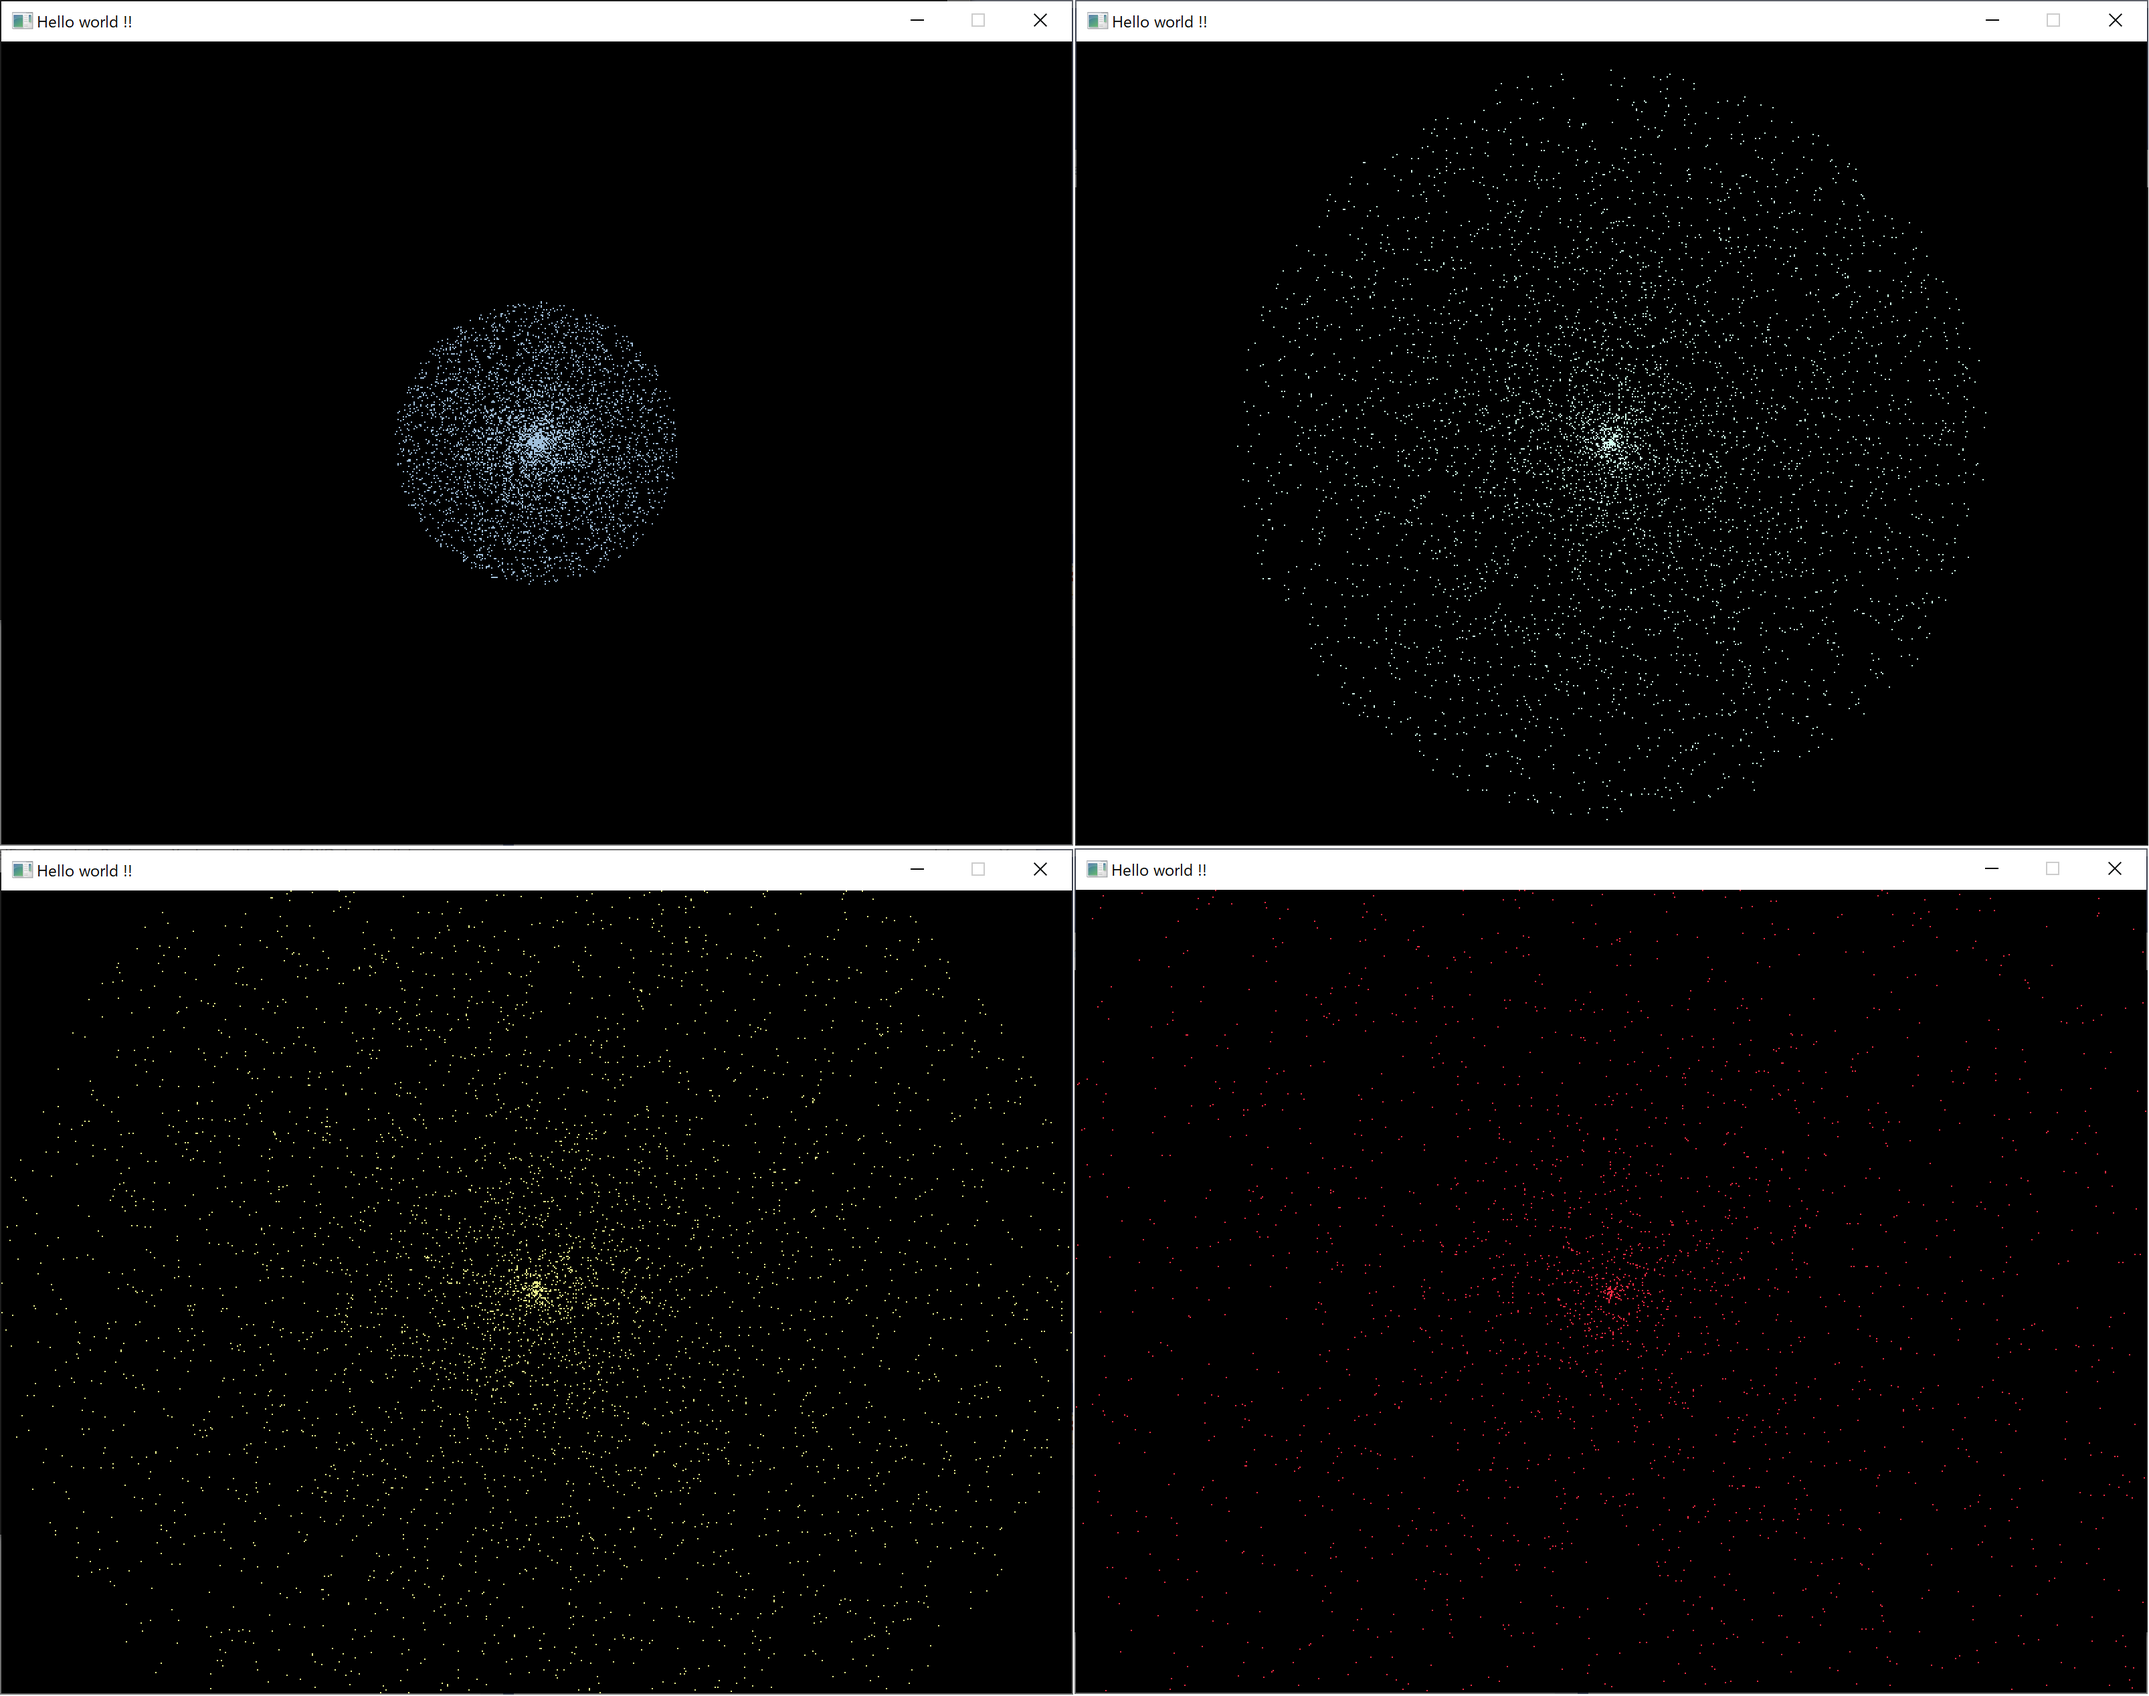
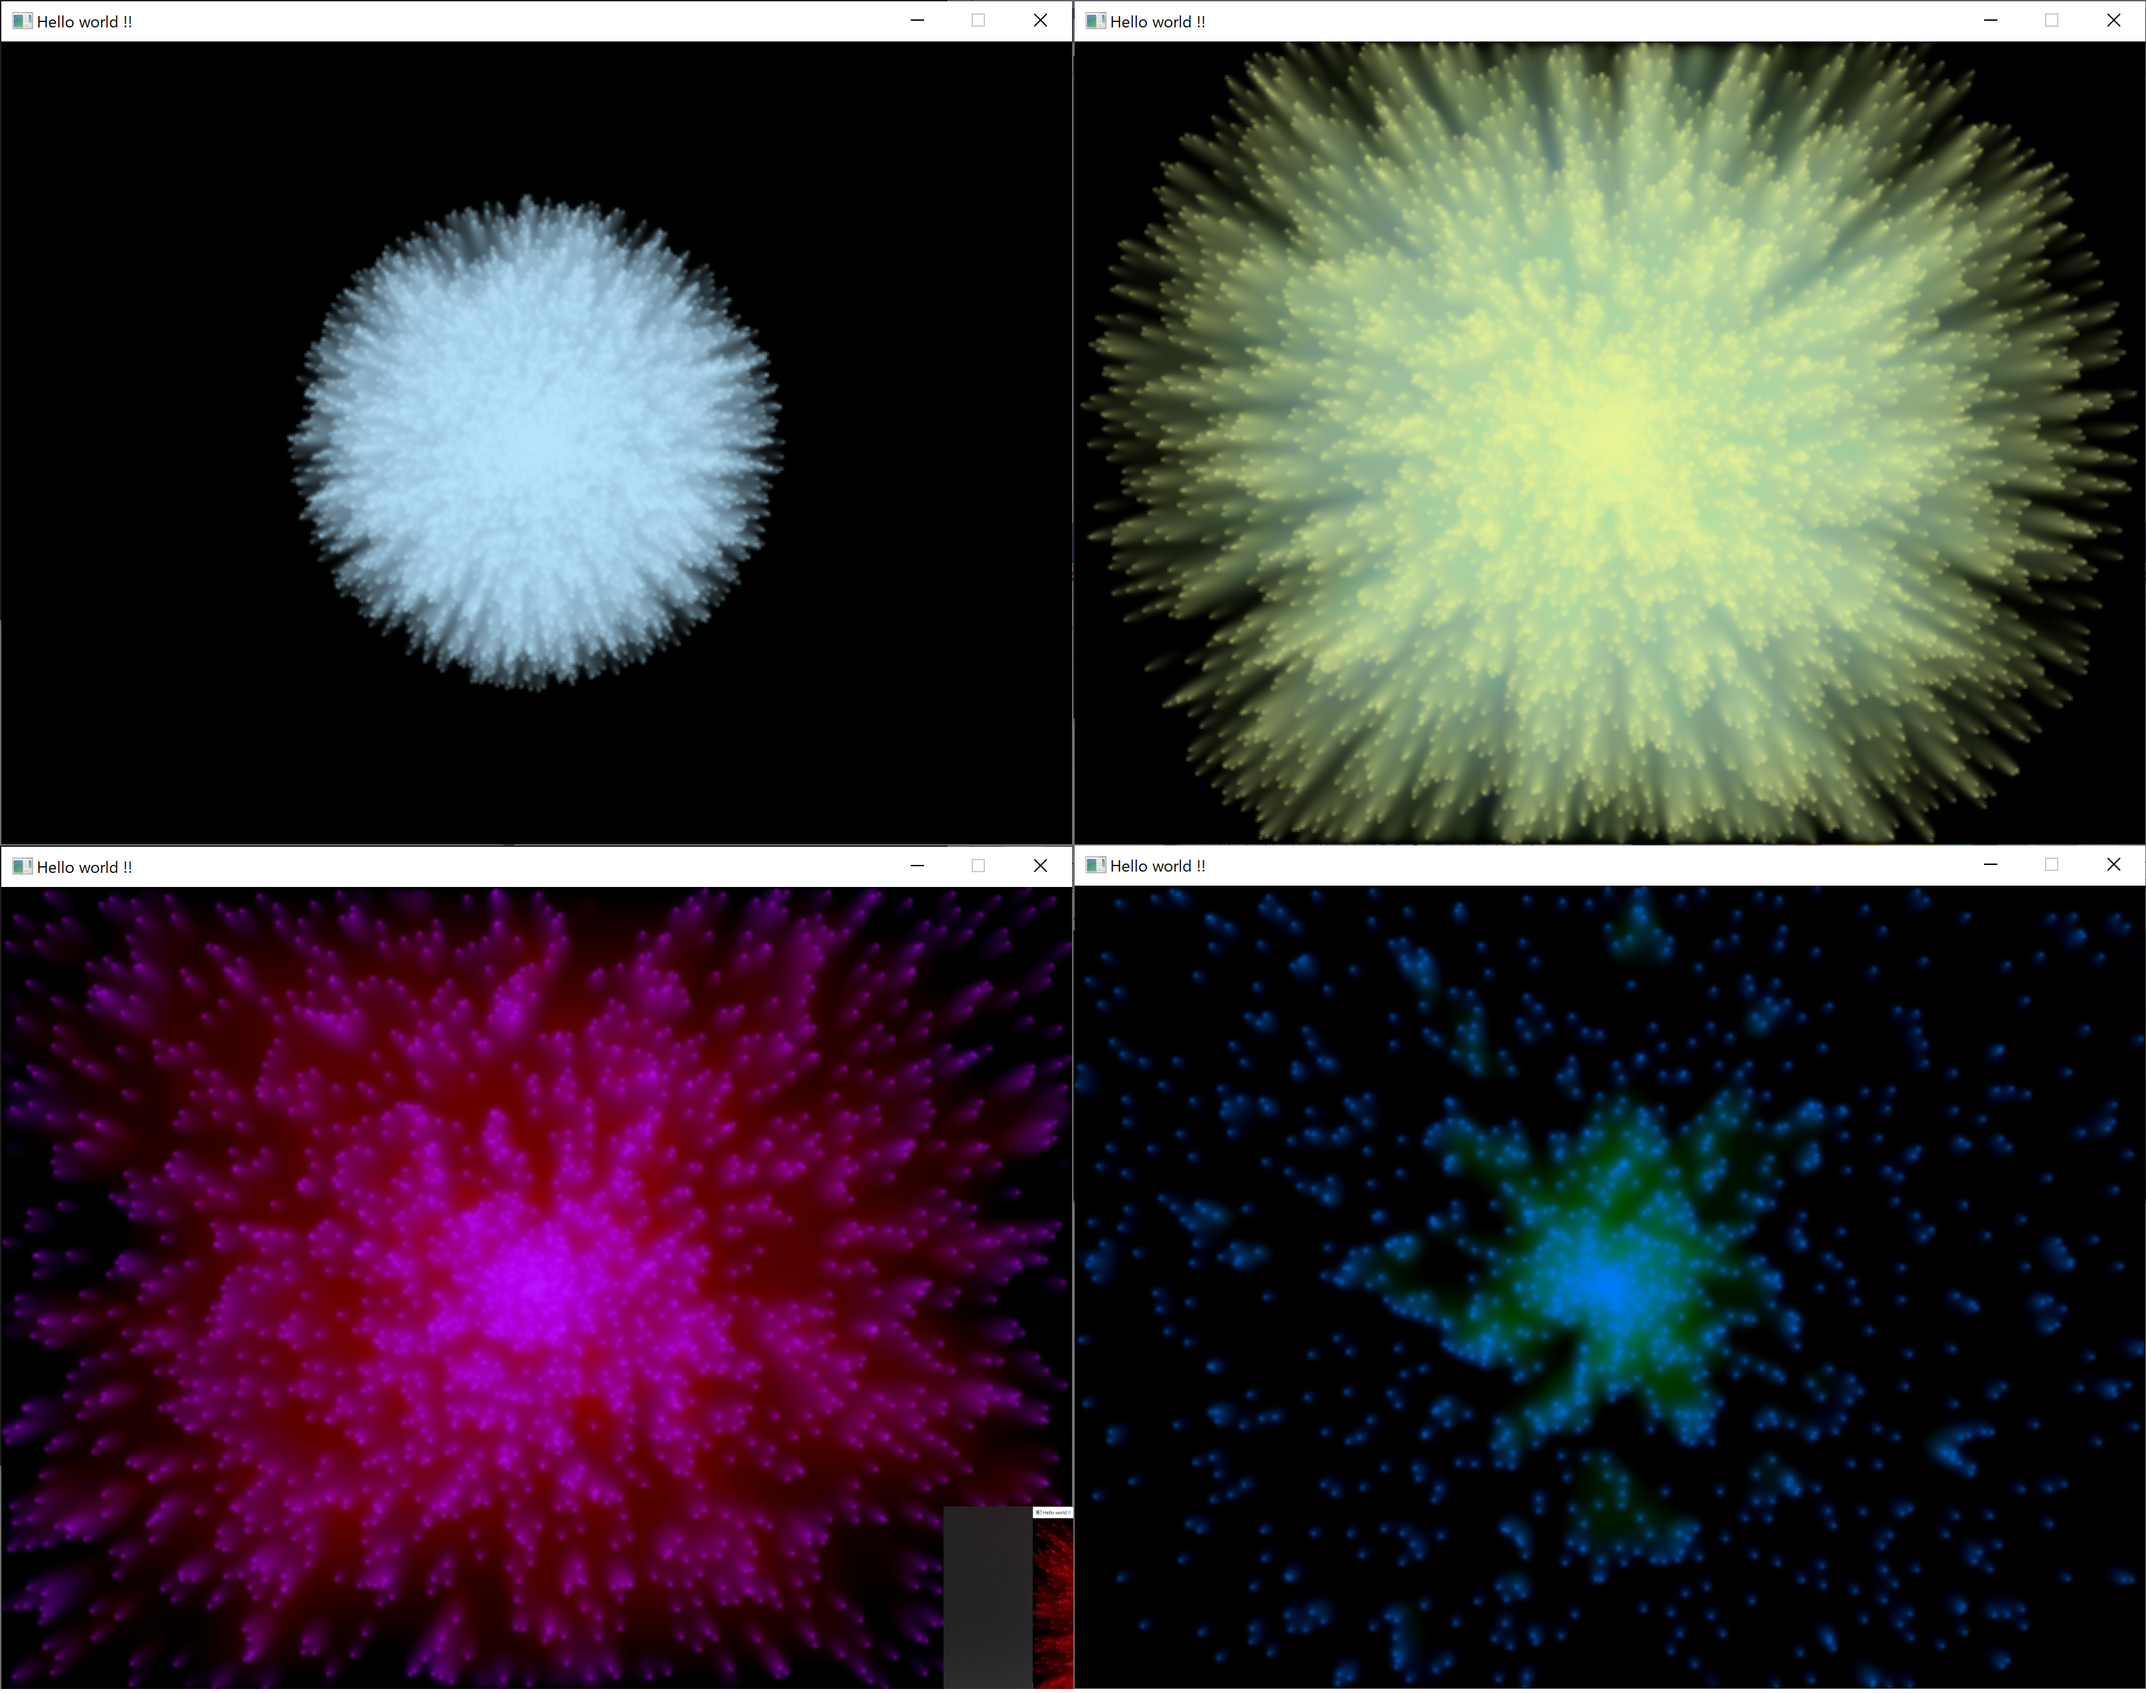
add sdl-basic until implementing box blur

diff --git a/Screen.cpp b/Screen.cpp
@@ -2,8 +2,7 @@
 
 namespace sdl_basic {
 	Screen::Screen() :
-		// m_window(NULL), m_renderer(NULL), m_texture(NULL), m_buffer1(NULL), m_buffer2(NULL) {
-        m_window(NULL), m_renderer(NULL), m_texture(NULL), m_buffer(NULL) {
+		m_window(NULL), m_renderer(NULL), m_texture(NULL), m_buffer1(NULL), m_buffer2(NULL) {
 	};
 
 	bool Screen::init() {
@@ -38,24 +37,15 @@ namespace sdl_basic {
         }
 
         // prepare memory
-        // m_buffer1 = new Uint32[SCREEN_WIDTH * SCREEN_HEIGHT];
-        // m_buffer2 = new Uint32[SCREEN_WIDTH * SCREEN_HEIGHT];
-        m_buffer = new Uint32[SCREEN_WIDTH * SCREEN_HEIGHT];
-
-        // memset(m_buffer1, 0, SCREEN_WIDTH * SCREEN_HEIGHT * sizeof(Uint32));
-        // memset(m_buffer2, 0, SCREEN_WIDTH * SCREEN_HEIGHT * sizeof(Uint32));
-        memset(m_buffer, 0, SCREEN_WIDTH * SCREEN_HEIGHT * sizeof(Uint32));
-
-        // set every 4bytes as color into memory
-        for (int i = 0; i < SCREEN_WIDTH * SCREEN_HEIGHT; i++) {
-            // m_buffer1[i] = 0x1C2C3C00;
-            // m_buffer2[i] = 0x1C2C3C00;
-            m_buffer[i] = 0x1C2C3C00;
-        }
+        m_buffer1 = new Uint32[SCREEN_WIDTH * SCREEN_HEIGHT];
+        m_buffer2 = new Uint32[SCREEN_WIDTH * SCREEN_HEIGHT];
+        
+        memset(m_buffer1, 0, SCREEN_WIDTH * SCREEN_HEIGHT * sizeof(Uint32));
+        memset(m_buffer2, 0, SCREEN_WIDTH * SCREEN_HEIGHT * sizeof(Uint32));
  
 		return true;
 	};
-    /*
+
     void Screen::boxBlur() {
         // swap the calculated m_buffer2 to m_buffer1
         Uint32* temp = m_buffer1;
@@ -73,8 +63,8 @@ namespace sdl_basic {
                 int greenTotal = 0;
                 int blueTotal = 0;
 
-                for (int row = -1; row < 1; row++) {
-                    for (int col = -1; col < 1; col++) {
+                for (int row = -1; row <= 1; row++) {
+                    for (int col = -1; col <= 1; col++) {
                         int currentX = x + col;
                         int currentY = y + row;
 
@@ -100,11 +90,6 @@ namespace sdl_basic {
             }
         }
     }
-    */
-    
-    void Screen::clear() {
-        memset(m_buffer, 0, SCREEN_WIDTH * SCREEN_HEIGHT * sizeof(Uint32));
-    }
     
     void Screen::setPixel(int x, int y, Uint8 red, Uint8 green, Uint8 blue) {
 
@@ -120,14 +105,12 @@ namespace sdl_basic {
         color <<= 8;
         color += 0xFF;
 
-        // m_buffer1[(y * SCREEN_WIDTH) + x] = color;
-        m_buffer[(y * SCREEN_WIDTH) + x] = color;
+        m_buffer1[(y * SCREEN_WIDTH) + x] = color;
     }
 
     void Screen::update() {
         // update screen
-        // SDL_UpdateTexture(m_texture, NULL, m_buffer1, SCREEN_WIDTH * sizeof(Uint32));
-        SDL_UpdateTexture(m_texture, NULL, m_buffer, SCREEN_WIDTH * sizeof(Uint32));
+        SDL_UpdateTexture(m_texture, NULL, m_buffer1, SCREEN_WIDTH * sizeof(Uint32));
         SDL_RenderClear(m_renderer);
         SDL_RenderCopy(m_renderer, m_texture, NULL, NULL);
         SDL_RenderPresent(m_renderer);
@@ -146,9 +129,8 @@ namespace sdl_basic {
 
 	void Screen::close() {
         // finalize screen
-        // delete[] m_buffer1;
-        // delete[] m_buffer2;
-        delete[] m_buffer;
+        delete[] m_buffer1;
+        delete[] m_buffer2;
         SDL_DestroyRenderer(m_renderer);
         SDL_DestroyTexture(m_texture);
         SDL_DestroyWindow(m_window);

diff --git a/Screen.h b/Screen.h
@@ -15,9 +15,8 @@ namespace sdl_basic {
 		SDL_Window* m_window;
 		SDL_Renderer* m_renderer;
 		SDL_Texture* m_texture;
-		Uint32* m_buffer;
-		// Uint32* m_buffer1;
-		// Uint32* m_buffer2;
+		Uint32* m_buffer1;
+		Uint32* m_buffer2;
 
 	public:
 		Screen();
@@ -26,8 +25,7 @@ namespace sdl_basic {
 		void setPixel(int x, int y, Uint8 red, Uint8 green, Uint8 blue);
 		bool processEvents();
 		void close();
-		void clear();
-		// void boxBlur();
+		void boxBlur();
 	};
 
 }

diff --git a/main.cpp b/main.cpp
@@ -24,7 +24,7 @@ int main(int argc, char* argv[])
 
         int elapsed = SDL_GetTicks();
 
-        screen.clear();
+        // screen.clear();
         swarm.update(elapsed);
 
         unsigned char red = (unsigned char)((1 + sin(elapsed * 0.0001)) * 128);
@@ -48,7 +48,7 @@ int main(int argc, char* argv[])
         }
         */
 
-        // screen.boxBlur();
+        screen.boxBlur();
 
         screen.update();
 
